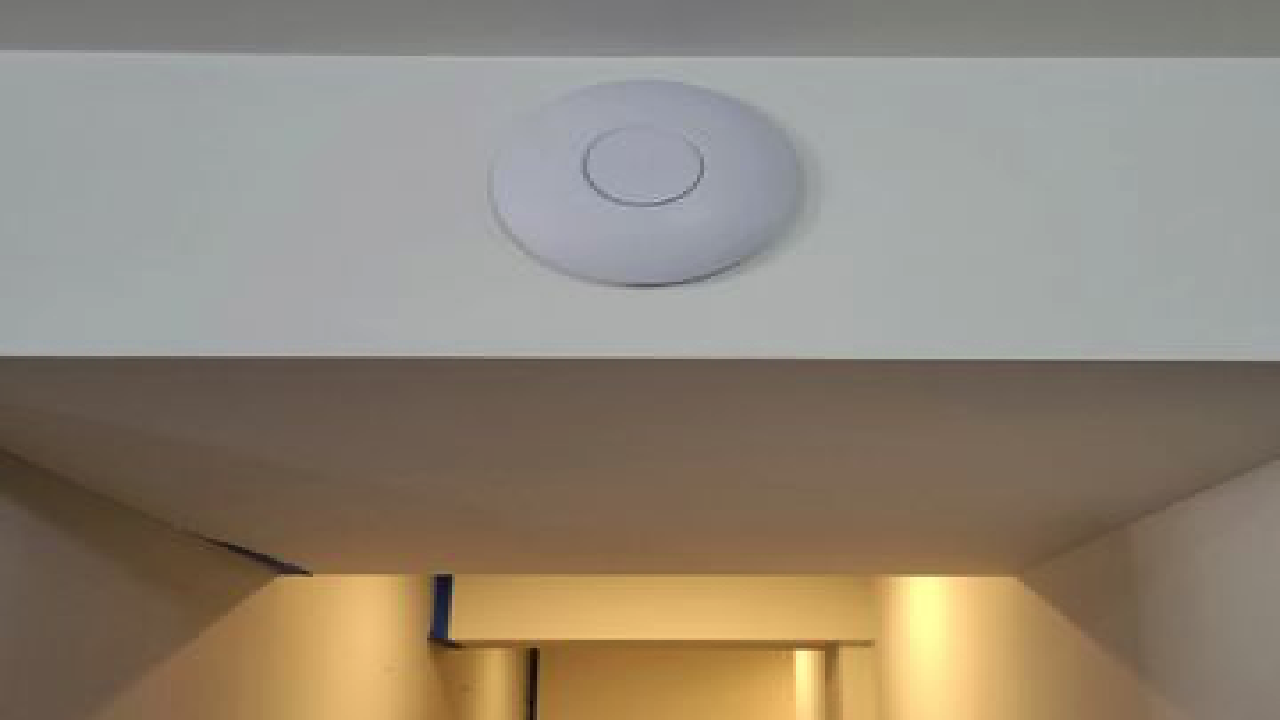
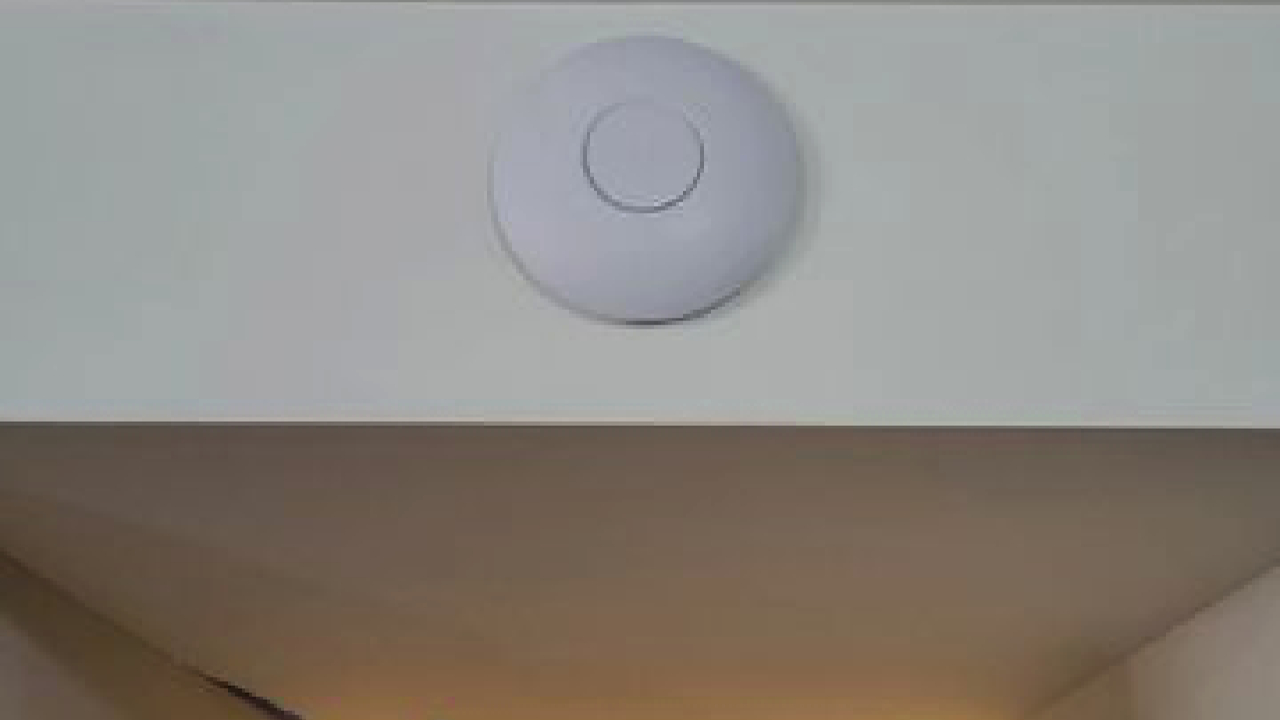
-Minor tweaks and organization

diff --git a/index.html b/index.html
@@ -36,8 +36,10 @@
           <h2>Menu</h2>
           <ul class="links">
             <li><a href="index.html">Home</a></li>
-            <li><a href="generic.html">Generic</a></li>
-            <li><a href="elements.html">Elements</a></li>
+            <li><a href="elements.html">About</a></li>
+            <li><a href="generic.html">Legal</a></li>
+            <li><a href="generic.html">Finance Options</a></li>
+            <li><a href="generic.html">Services</a></li>
           </ul>
           <a href="#" class="close">Close</a>
         </div>
@@ -65,7 +67,7 @@
             <a href="#" class="image"><img src="images/about.png" alt="" /></a>
             <div class="content">
               <h2 class="major">About Us</h2>
-              <p>We do stuff.</p>
+              <p>About us info...</p>
               <a href="#" class="special">Learn more</a>
             </div>
           </div>
@@ -77,7 +79,7 @@
             <a href="#" class="image"><img src="images/safety.jpg" alt="" /></a>
             <div class="content">
               <h2 class="major">Licensed | Insured | Warrantied</h2>
-              <p>We offer stuff.</p>
+              <p>License info...</p>
               <a href="#" class="special">Learn more</a>
             </div>
           </div>
@@ -91,7 +93,7 @@
             /></a>
             <div class="content">
               <h2 class="major">Finance Options</h2>
-              <p>We finance stuff.</p>
+              <p>Finance info...</p>
               <a href="#" class="special">Learn more</a>
             </div>
           </div>
@@ -108,7 +110,7 @@
                   ><img src="images/services/services_2.jpg" alt=""
                 /></a>
                 <h3 class="major">Starlink Installs</h3>
-                <p>Fancy satellites.</p>
+                <p>Info...</p>
                 <a href="#" class="special">Learn more</a>
               </article>
               <article>
@@ -116,7 +118,7 @@
                   ><img src="images/services/services_5.jpg" alt=""
                 /></a>
                 <h3 class="major">WiFi Outdoors</h3>
-                <p>Fancy extenders.</p>
+                <p>Info...</p>
                 <a href="#" class="special">Learn more</a>
               </article>
               <article>
@@ -124,7 +126,7 @@
                   ><img src="images/services/services_3.jpg" alt=""
                 /></a>
                 <h3 class="major">Security Monitoring</h3>
-                <p>Fancy cameras.</p>
+                <p>Info...</p>
                 <a href="#" class="special">Learn more</a>
               </article>
               <article>
@@ -132,7 +134,7 @@
                   ><img src="images/services/services_4.jpg" alt=""
                 /></a>
                 <h3 class="major">Project Consultations</h3>
-                <p>Let's plan.</p>
+                <p>Info...</p>
                 <a href="#" class="special">Learn more</a>
               </article>
             </section>
@@ -172,21 +174,20 @@
           <ul class="contact">
             <li class="icon solid fa-home">
               VANN Telecom<br />
-              1234 Somewhere Road Suite #2894<br />
-              Nashville, TN 00000-0000
+              Address<br />
             </li>
             <li class="icon solid fa-phone">(000) 000-0000</li>
             <li class="icon solid fa-envelope">
-              <a href="#">information@untitled.tld</a>
+              <a href="#">info@vann.com</a>
             </li>
             <li class="icon brands fa-twitter">
-              <a href="#">twitter.com/untitled-tld</a>
+              <a href="#">twitter.com/vann</a>
             </li>
             <li class="icon brands fa-facebook-f">
-              <a href="#">facebook.com/untitled-tld</a>
+              <a href="#">facebook.com/vann</a>
             </li>
             <li class="icon brands fa-instagram">
-              <a href="#">instagram.com/untitled-tld</a>
+              <a href="#">instagram.com/vann</a>
             </li>
           </ul>
           <ul class="copyright">

diff --git a/assets/css/main.css b/assets/css/main.css
@@ -3391,7 +3391,7 @@ button:disabled,
 }
 
 #menu .close {
-  background-image: url("images/close.svg");
+  background-image: url("../images/close.svg");
   background-position: 75% 25%;
   background-repeat: no-repeat;
   background-size: 2em 2em;
